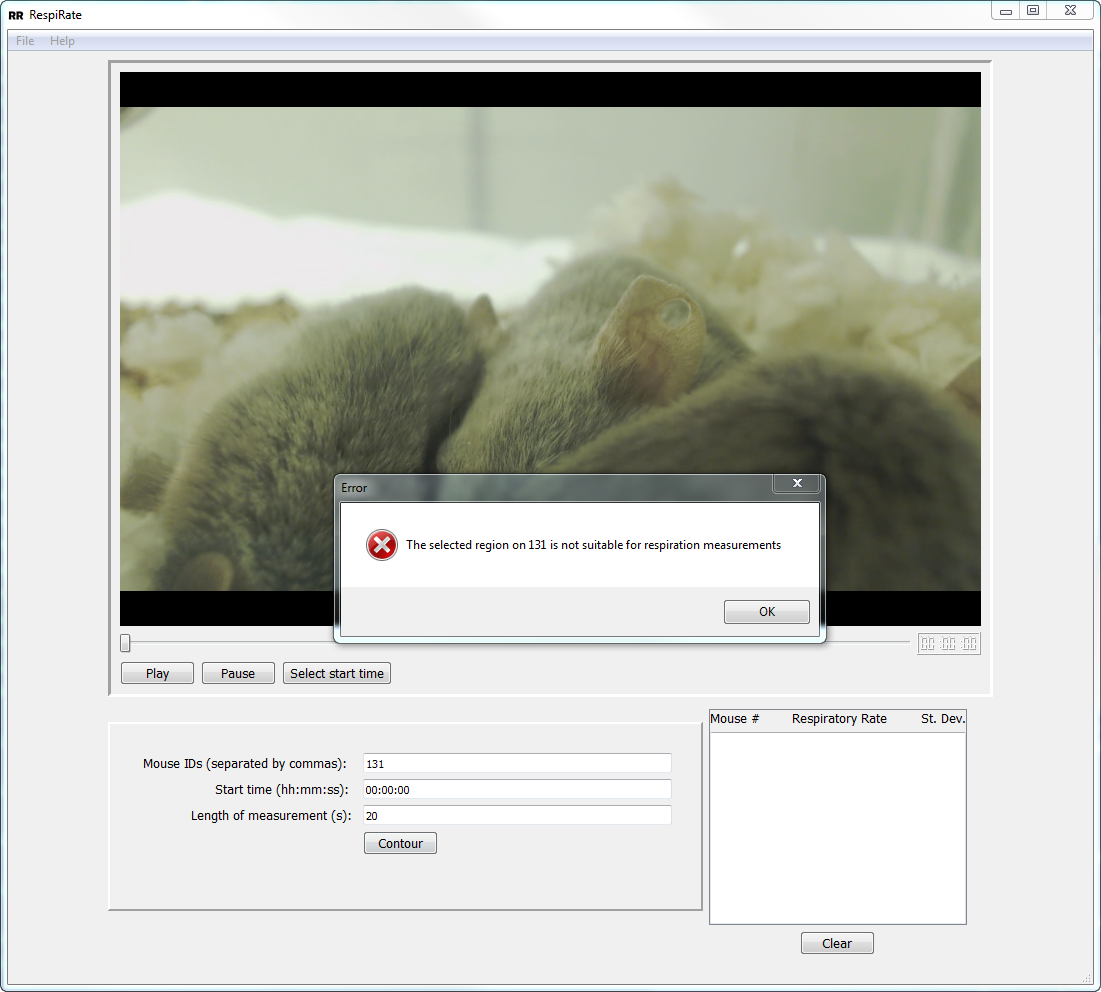
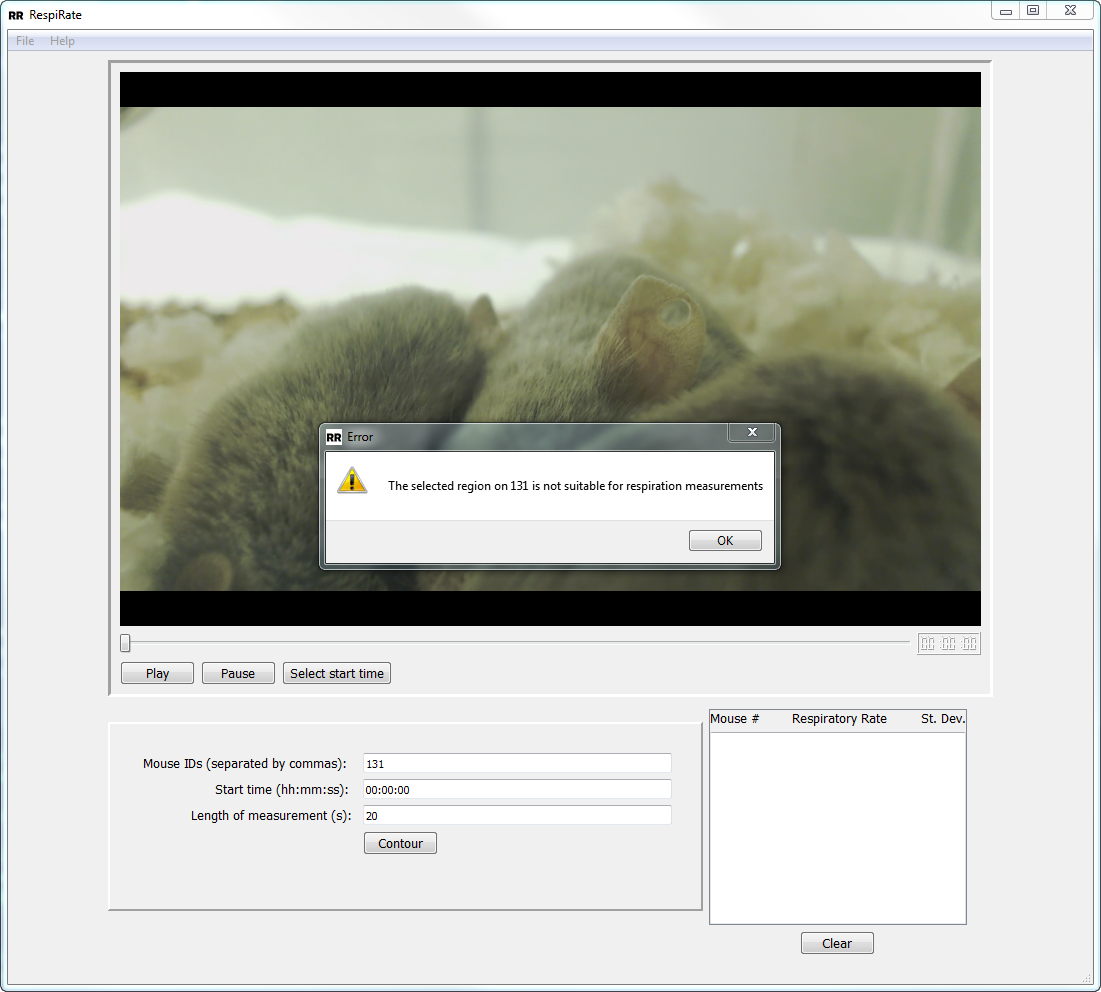
Update images for Qt

Changed region(s): [[0.2779, 0.4062, 0.772, 0.6562], [0.9882, 0.5938, 1.0, 0.7188]]

diff --git a/RespiRate.py b/RespiRate.py
@@ -539,7 +539,7 @@ class Gui(QtWidgets.QMainWindow):
                 errorNotif(self, 'Measurement did not run for entire set length.')
 
             # Ask if we want to export data to a spreadsheet
-            export = askQuestion(self, 'RespiRate', 'Export data to spreadsheet?')
+            export = askQuestion('RespiRate', 'Export data to spreadsheet?')
             print('export', export)
             if export == 'yes':
                 for numba in range(0, self.numberOfMice):
